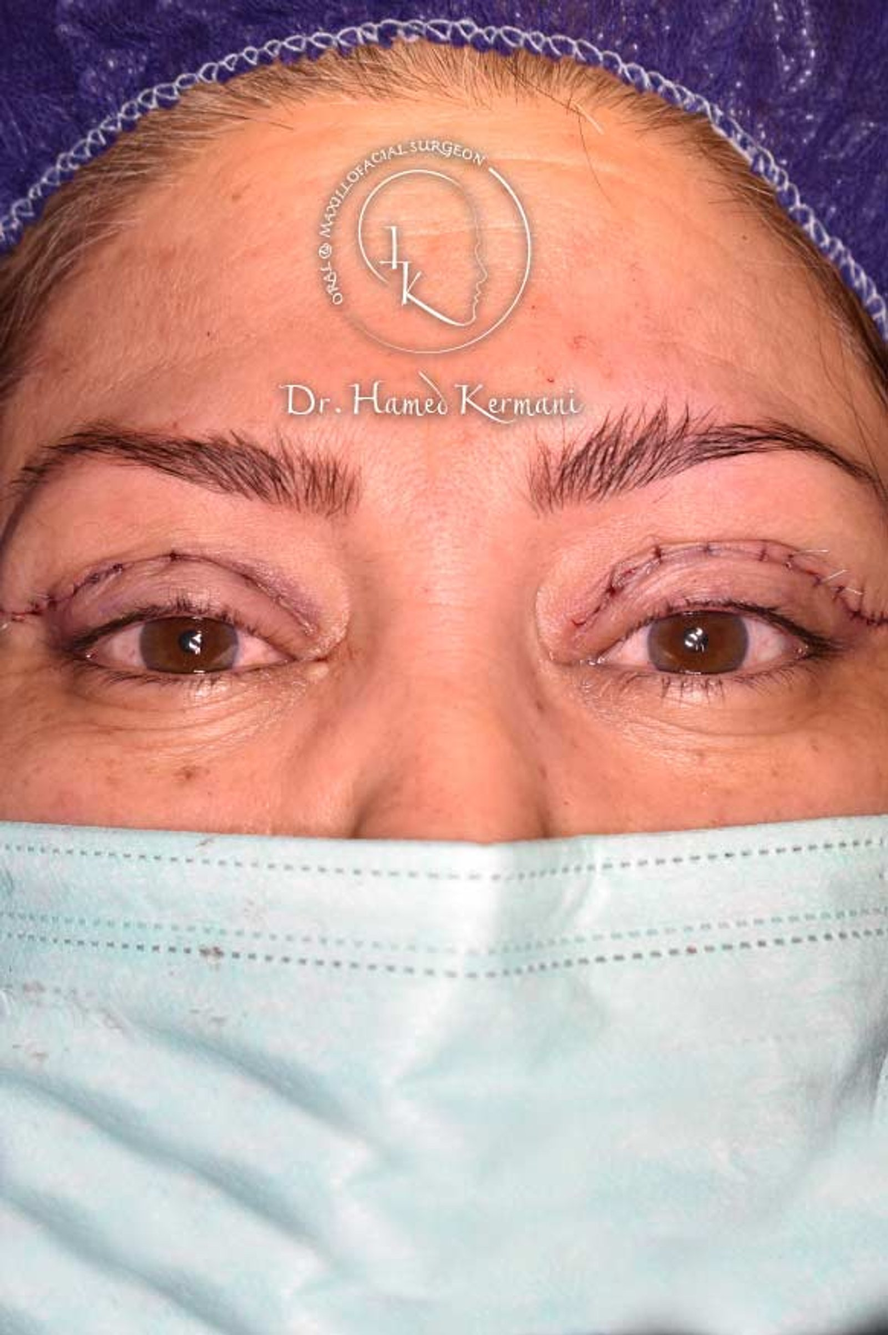
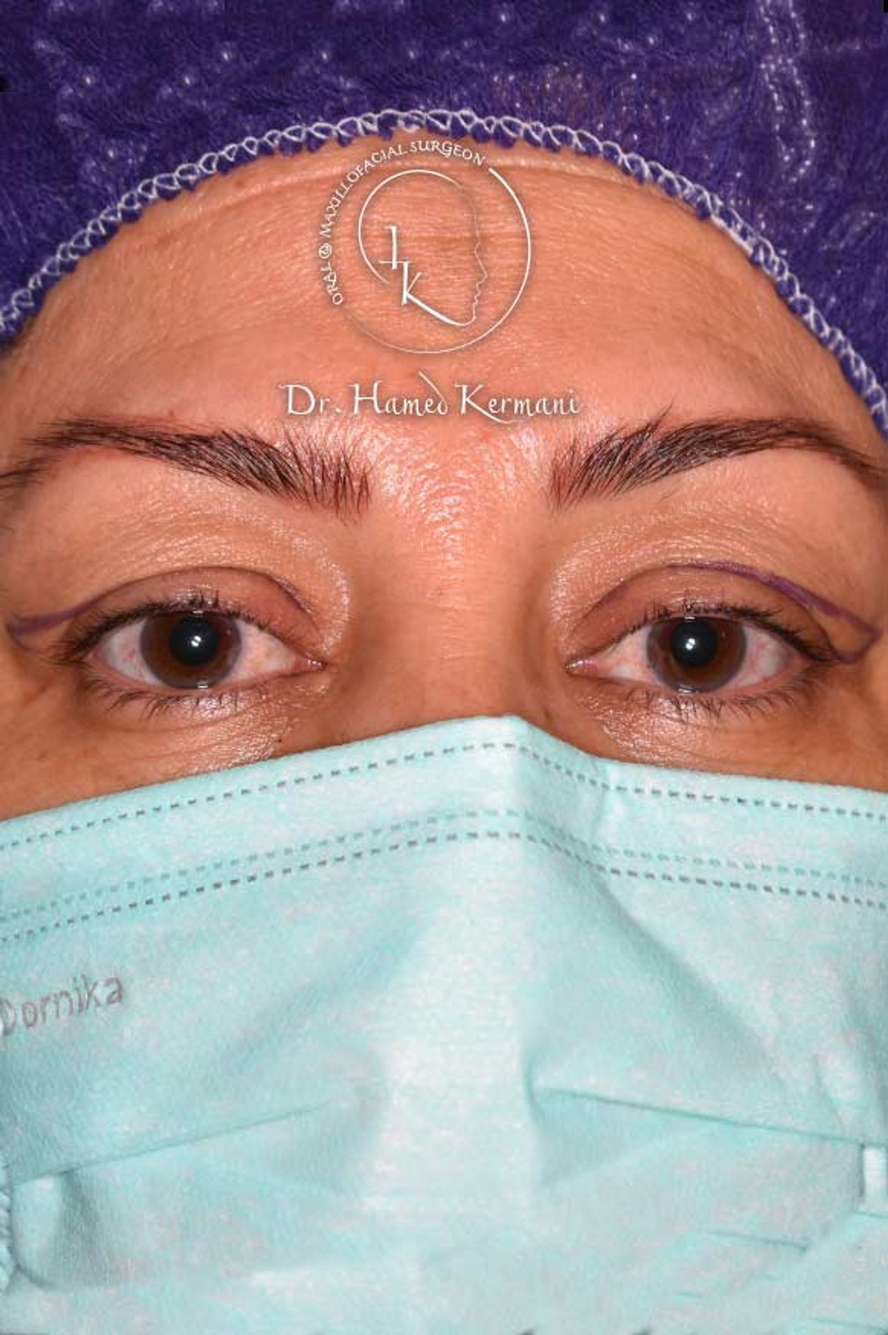
fix(gallery): مقایسه قبل/بعد پرتره و تمامچهره — کراپ پیشانی حذف شد
- BeforeAfter از کادر افقی ۳/۲ به عمودی ۴/۵ با object-center رفت؛
  عکسهای عمودی کلینیک قبلاً فقط پیشانی را نشان میدادند
- برچسبهای Before/After فارسی شدند (قبل/بعد)
- جابجایی محتوای blepharo-1/2: خطگذاری بنفش = قبل، بخیه = بعد
  (قبلاً برعکس بود؛ دیتابیس و کد بدون تغییر مسیر درست شدند)
- عکس کارت خدمت بلفاروپلاستی به blepharo-1 (همان نمای قبلی) وصال شد

diff --git a/src/components/before-after.tsx b/src/components/before-after.tsx
@@ -3,11 +3,19 @@
 import Image from "next/image";
 import { useCallback, useRef, useState } from "react";
 
+/* ============================================================
+   مقایسه تعاملی قبل و بعد — نسخه پرتره (تمامچهره)
+   قبلاً کادر افقی ۳/۲ بود و عکسهای عمودی کلینیک را قوی
+   کراپ میکرد (فقط پیشانی دیده میشد)؛ اکنون کادر عمودی ۴/۵
+   با object-center است تا تمام چهره در دو «پرده» دیده شود.
+   برچسبها فارسی شدند (قبل/بعد) و دستگیره هم شیکتر شد.
+   ============================================================ */
+
 export function BeforeAfter({
   before,
   after,
   label,
-  hint = "جهت مشاهده قبل و بعد، دستگیره وسط عکس را به طرفین بکشید",
+  hint = "دستگیره وسط تصویر را به طرفین بکشید",
   priority = false,
 }: {
   before: string;
@@ -29,11 +37,11 @@ export function BeforeAfter({
   }, []);
 
   return (
-    <figure className="group">
+    <figure className="group mx-auto w-full max-w-xl">
       <div
         ref={ref}
         dir="ltr"
-        className="relative aspect-[4/3] sm:aspect-[3/2] w-full select-none overflow-hidden rounded-2xl bg-ink cursor-ew-resize shadow-2xl shadow-ink/30"
+        className="relative aspect-[4/5] w-full select-none overflow-hidden rounded-2xl bg-ink cursor-ew-resize shadow-xl shadow-ink/25 ring-1 ring-ink/10 transition-shadow group-hover:shadow-2xl group-hover:shadow-ink/30"
         onPointerDown={(e) => {
           setDragging(true);
           (e.target as HTMLElement).setPointerCapture?.(e.pointerId);
@@ -53,16 +61,16 @@ export function BeforeAfter({
           if (e.key === "ArrowLeft") setPos((p) => Math.max(4, p - 4));
         }}
       >
-        {/* after (base) */}
+        {/* after (base) — بعد از جراحی */}
         <Image
           src={after}
           alt={`${label} — بعد از جراحی`}
           fill
           priority={priority}
-          sizes="(max-width: 768px) 100vw, 50vw"
-          className="object-cover object-top"
+          sizes="(max-width: 768px) 100vw, (max-width: 1280px) 50vw, 576px"
+          className="object-cover object-center"
         />
-        {/* before (clipped) */}
+        {/* before (clipped) — قبل از جراحی */}
         <div
           className="absolute inset-0 overflow-hidden"
           style={{ clipPath: `inset(0 ${100 - pos}% 0 0)` }}
@@ -71,32 +79,36 @@ export function BeforeAfter({
             src={before}
             alt={`${label} — قبل از جراحی`}
             fill
-            sizes="(max-width: 768px) 100vw, 50vw"
-            className="object-cover object-top"
+            sizes="(max-width: 768px) 100vw, (max-width: 1280px) 50vw, 576px"
+            className="object-cover object-center"
           />
-          <span className="absolute top-4 left-4 rounded-full bg-ink/70 px-3 py-1 text-xs font-bold text-white backdrop-blur">
-            Before
+          <span className="absolute top-4 left-4 rounded-full bg-ink/75 px-3.5 py-1.5 text-xs font-extrabold text-white shadow-lg backdrop-blur">
+            قبل
           </span>
         </div>
-        <span className="absolute top-4 right-4 rounded-full bg-teal/90 px-3 py-1 text-xs font-bold text-white backdrop-blur">
-          After
+        <span className="absolute top-4 right-4 rounded-full bg-teal/90 px-3.5 py-1.5 text-xs font-extrabold text-white shadow-lg backdrop-blur">
+          بعد
         </span>
 
-        {/* handle */}
+        {/* handle — دستگیره */}
         <div
-          className="absolute inset-y-0 w-[3px] bg-white/90 shadow-[0_0_18px_rgba(255,255,255,0.6)]"
+          className="absolute inset-y-0 w-[3px] bg-white/90 shadow-[0_0_18px_rgba(255,255,255,0.55)]"
           style={{ left: `${pos}%` }}
         >
-          <span className="absolute top-1/2 left-1/2 flex h-11 w-11 -translate-x-1/2 -translate-y-1/2 items-center justify-center rounded-full border-2 border-white bg-white/15 backdrop-blur-md transition-transform group-active:scale-110">
-            <svg width="20" height="20" viewBox="0 0 24 24" fill="none" stroke="white" strokeWidth="2.4" strokeLinecap="round" strokeLinejoin="round" aria-hidden>
+          <span
+            className={`absolute top-1/2 left-1/2 flex h-12 w-12 -translate-x-1/2 -translate-y-1/2 items-center justify-center rounded-full border-2 border-white bg-white/20 shadow-xl backdrop-blur-md transition-transform duration-300 ${
+              dragging ? "scale-110 bg-white/30" : "group-hover:scale-105"
+            }`}
+          >
+            <svg width="22" height="22" viewBox="0 0 24 24" fill="none" stroke="white" strokeWidth="2.4" strokeLinecap="round" strokeLinejoin="round" aria-hidden>
               <path d="M8 7l-5 5 5 5M16 7l5 5-5 5" />
             </svg>
           </span>
         </div>
       </div>
       <figcaption className="mt-3 flex flex-wrap items-center justify-between gap-2 text-sm">
-        <span className="font-bold">{label}</span>
-        <span className="text-muted-foreground">{hint}</span>
+        <span className="font-extrabold">{label}</span>
+        <span className="text-xs text-muted-foreground">{hint}</span>
       </figcaption>
     </figure>
   );

diff --git a/src/lib/data.ts b/src/lib/data.ts
@@ -109,7 +109,7 @@ export const SERVICES = [
     title: "بلفاروپلاستی",
     latin: "Blepharoplasty",
     desc: "جراحی پلک برای رفع پف و افتادگی پلک بالا و پایین؛ جوانسازی نگاه با برش های ظریف و پنهان در چین طبیعی پلک.",
-    image: "/images/blepharo-2.jpg",
+    image: "/images/blepharo-1.jpg",
     points: [
       "رفع پف و کیسه های زیر چشم",
       "اصلاح افتادگی پلک بالا",
@@ -273,6 +273,10 @@ export const BEFORE_AFTER = {
     label: "جراحی دو فک (بایمکس)",
   },
   blepharo: {
+    /* توجه: محتوای فایلها جابجا شده — blepharo-1 = عکس قبل از عمل
+       (خطگذاری بنفش) و blepharo-2 = بلافاصله بعد از عمل (بخیه).
+       ردیفهای دیتابیس (BeforeAfterPair) به همین مسیرها اشاره میکنند
+       و چون فایلها عوض شدند، پرده قبل/بعد اکنون درست است. */
     before: "/images/blepharo-1.jpg",
     after: "/images/blepharo-2.jpg",
     label: "بلفاروپلاستی",
